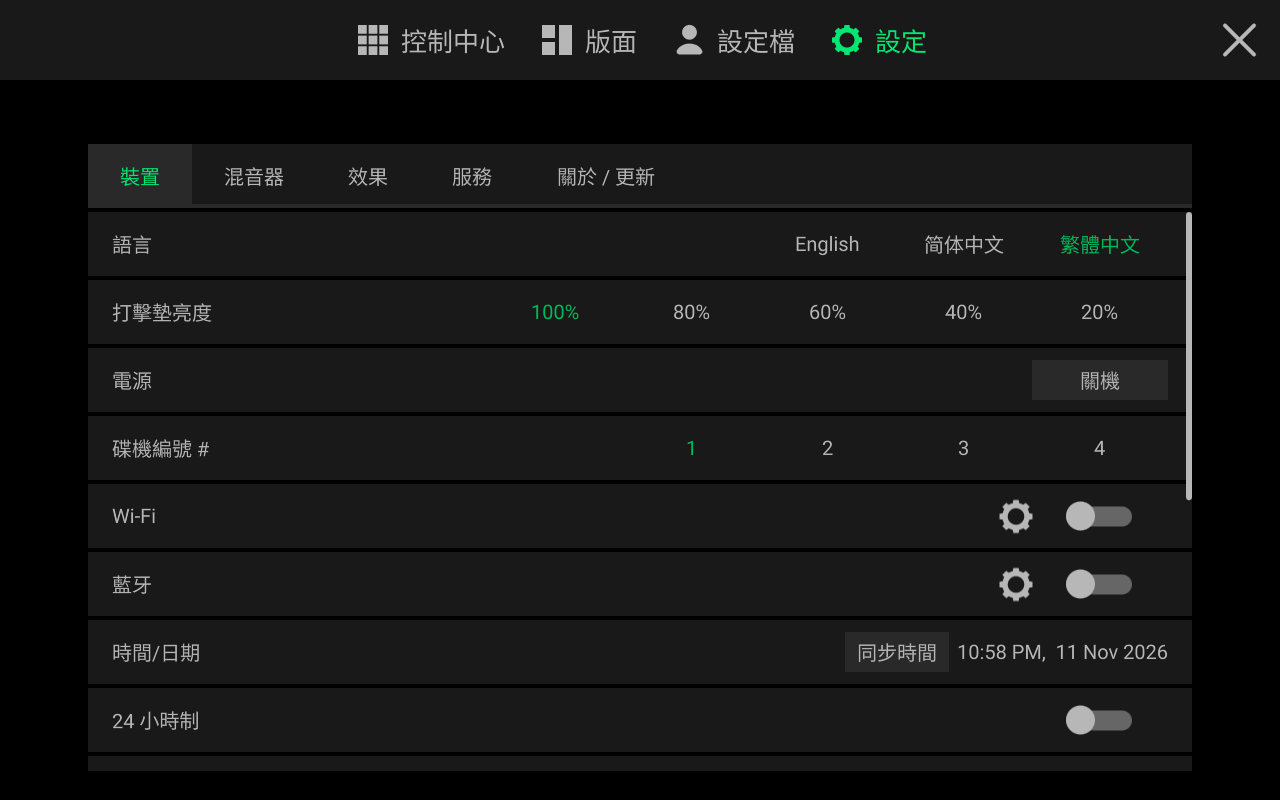
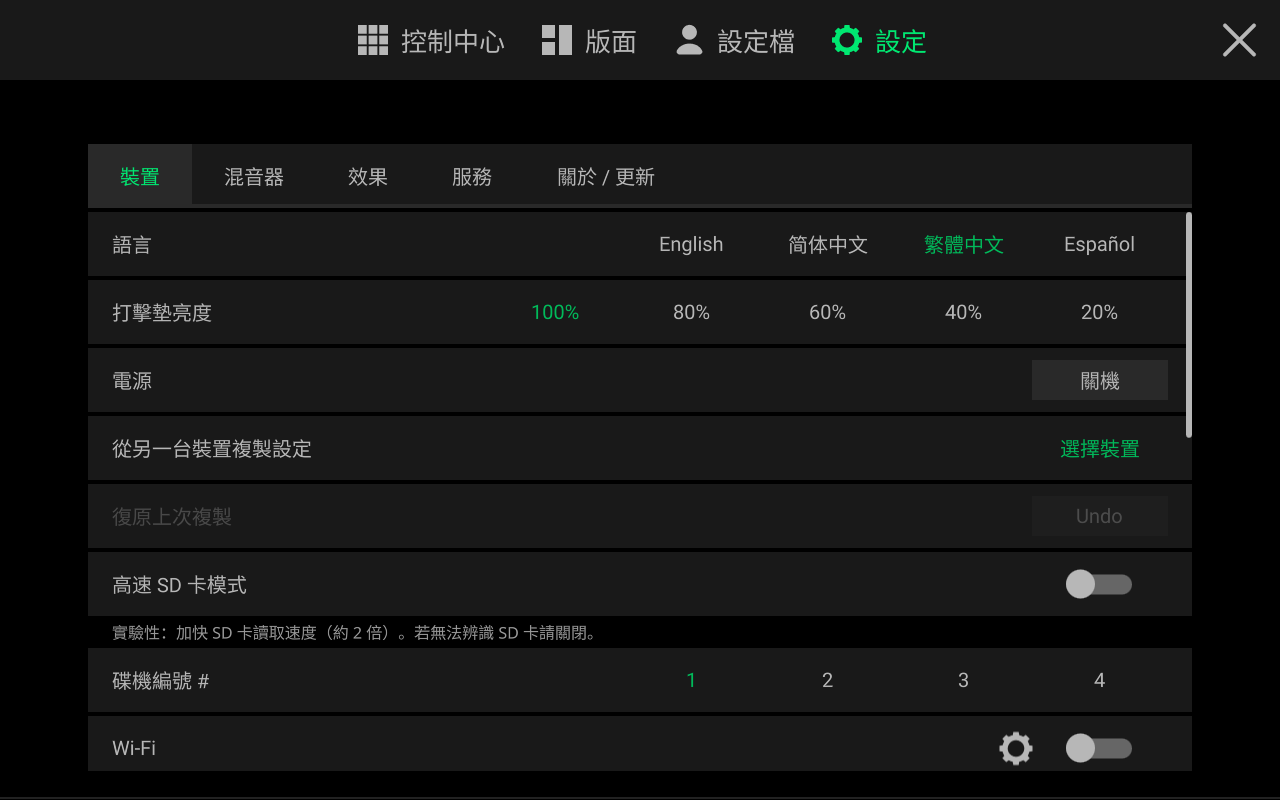
docs(shots): Settings -> Device with the Español and High-speed SD card rows; captions
Re-render 06b and 13 at the final integration tip (en, zh-CN, zh-TW), name the new rows in
their captions and bump the content.js cache parameter.

diff --git a/docs/site/content.js b/docs/site/content.js
@@ -688,9 +688,9 @@
         { k: "shot", name: "25-profile-safety.png", cap: L("配置 → 安全：锁定播放中的碟机、唱针锁定、打击垫锁定与同步保护容差", "設定檔 → 安全：鎖定播放中的碟機、唱針鎖定、打擊墊鎖定與同步保護容差", "Profile → Safety: Lock Playing Deck, Needle Lock, Pad Lock, and Sync Guard Tolerance") },
         { k: "shot", name: "26-profile-library.png", cap: L("配置 → 曲库：分轨列表与局域网分轨提示、OmniSource 及曲目列表波形开关", "設定檔 → 曲庫：分軌列表與區域網路分軌提示、OmniSource 及曲目列表波形開關", "Profile → Library: Stems List with LAN Stems status hint, OmniSource, and Tracklist Waveform") },
         { k: "shot", name: "17-profile-display.png", cap: L("配置 → 显示：曲目标题（内嵌标签 / 文件名）、时间格式、曲目结束提醒、同步指示与波形样式（Denon / RGB / 3-Band）", "設定檔 → 顯示：曲目標題（內嵌標籤 / 檔案名稱）、時間格式、曲目結束提醒、同步指示與波形樣式（Denon / RGB / 3-Band）", "Profile → Display: Track Title (Metadata / Filename), Time Format, Track End Warning, Sync Indicator, and Waveform Style (Denon / RGB / 3-Band)") },
-        { k: "shot", name: "06b-preferences-device.png", cap: L("设置 → 设备：语言、打击垫亮度、电源、碟机编号 #、Wi-Fi、蓝牙与同步时间", "設定 → 裝置：語言、打擊墊亮度、電源、碟機編號 #、Wi-Fi、藍牙與同步時間", "Settings → Device: Language, Pad LED Brightness, Power, Player #, Wi-Fi, Bluetooth, and Sync Time") },
+        { k: "shot", name: "06b-preferences-device.png", cap: L("设置 → 设备：语言（含 Español）、打击垫亮度、电源、从另一台设备复制设置、高速 SD 卡模式（实验性）、碟机编号 #、Wi-Fi 等", "設定 → 裝置：語言（含 Español）、打擊墊亮度、電源、從另一台裝置複製設定、高速 SD 卡模式（實驗性）、碟機編號 #、Wi-Fi 等", "Settings → Device: Language (with Español), Pad LED Brightness, Power, Copy settings from another deck, High-speed SD card (experimental), Player #, Wi-Fi and more") },
         { k: "shot", name: "28-settings-fx.png", cap: L("设置 → 效果：效果切换行为（保持设置 / 恢复默认）", "設定 → 效果：效果切換行為（保留設定 / 恢復預設）", "Settings → FX: Effect Select Behavior (Recall / Default)") },
-        { k: "shot", name: "13-preferences-services.png", cap: L("设置 → 服务：Dropbox 云盘、流媒体音质、网易云下载方式、直播推流，以及 Pro DJ Link 曲库与导出至 CDJ", "設定 → 服務：Dropbox 雲端硬碟、串流音質、網易雲下載方式、直播推流，以及 Pro DJ Link 曲庫與匯出至 CDJ", "Settings → Services: Dropbox cloud, Streaming Quality, NetEase Download, Live Stream, and Pro DJ Link Library / Export to CDJ") },
+        { k: "shot", name: "13-preferences-services.png", cap: L("设置 → 服务：Dropbox 云盘、流媒体音质、网易云下载方式、直播推流，以及 Pro DJ Link 曲库、导出至 CDJ 与远程加载（局域网 API）", "設定 → 服務：Dropbox 雲端硬碟、串流音質、網易雲下載方式、直播推流，以及 Pro DJ Link 曲庫、匯出至 CDJ 與遠端載入（區域網路 API）", "Settings → Services: Dropbox cloud, Streaming Quality, NetEase Download, Live Stream, Pro DJ Link Library / Export to CDJ, and Remote Load (LAN API)") },
       ],
     },
 
